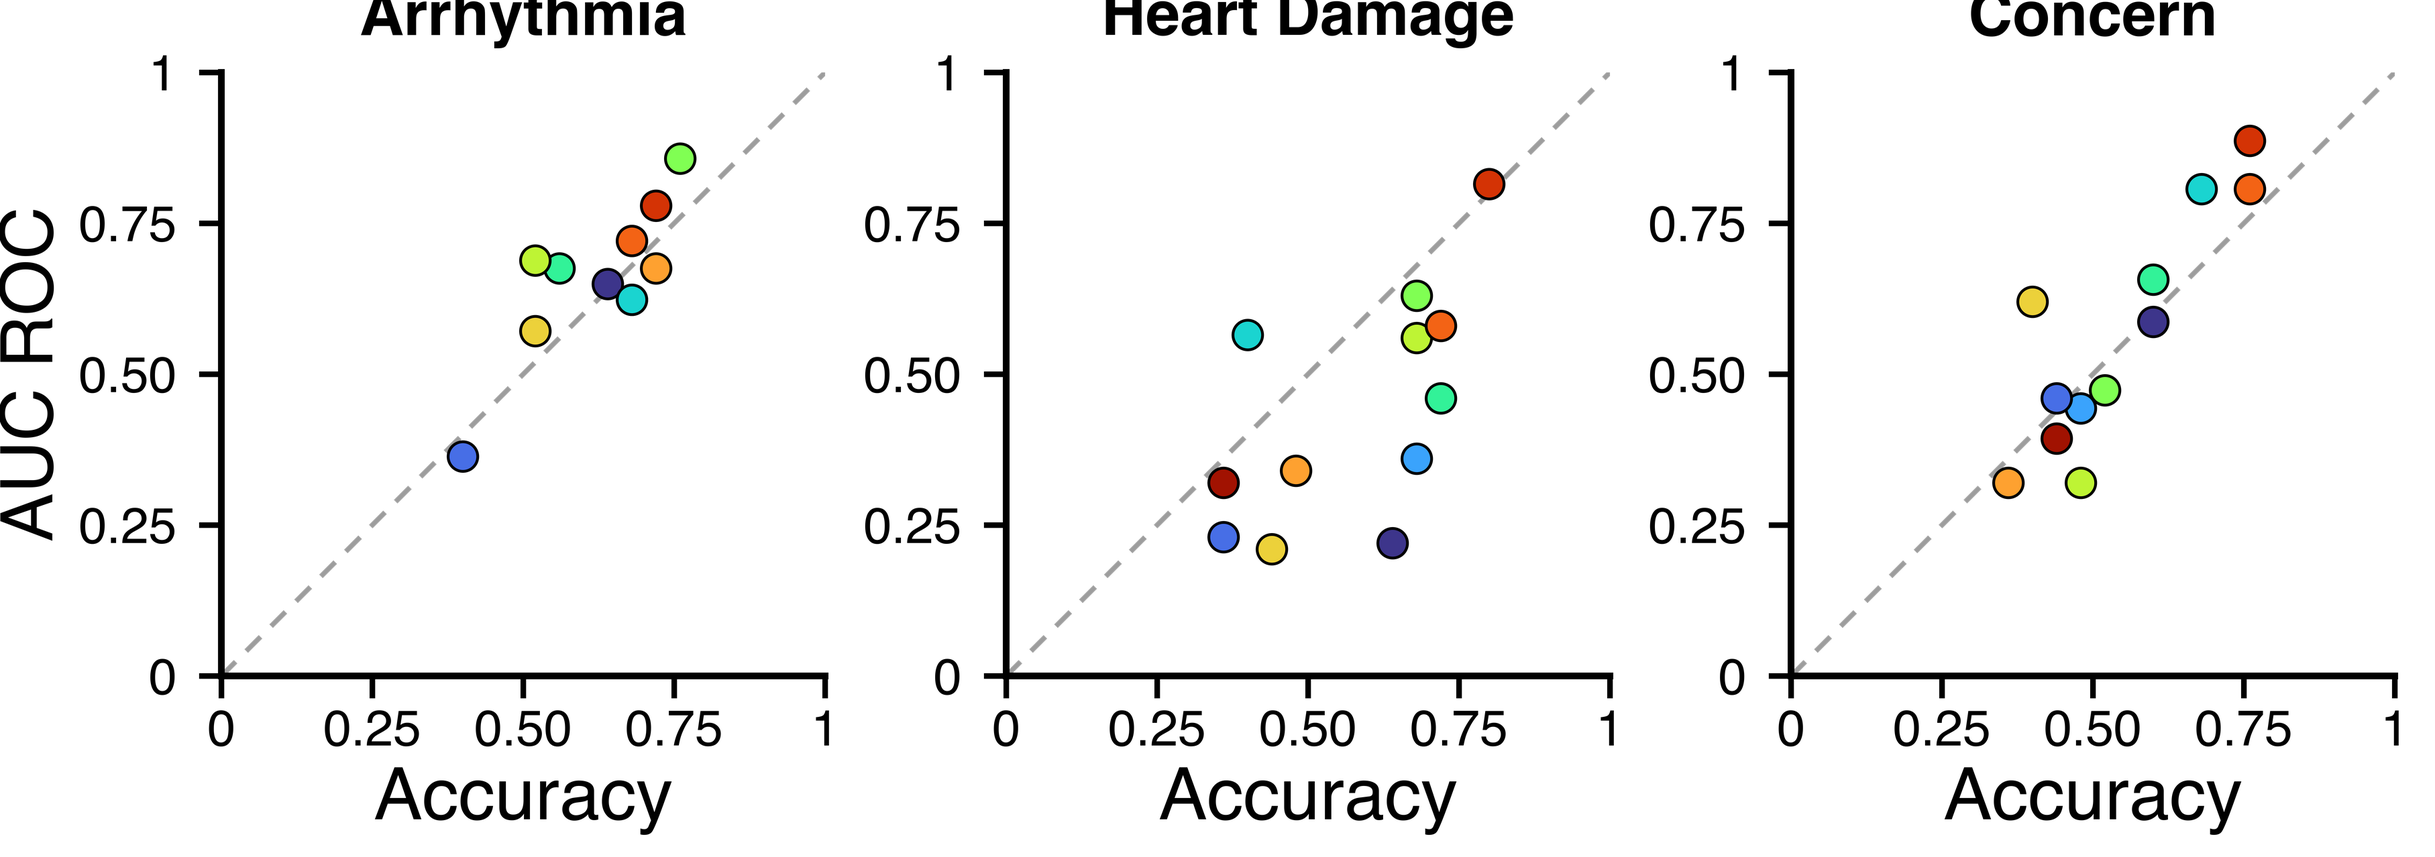
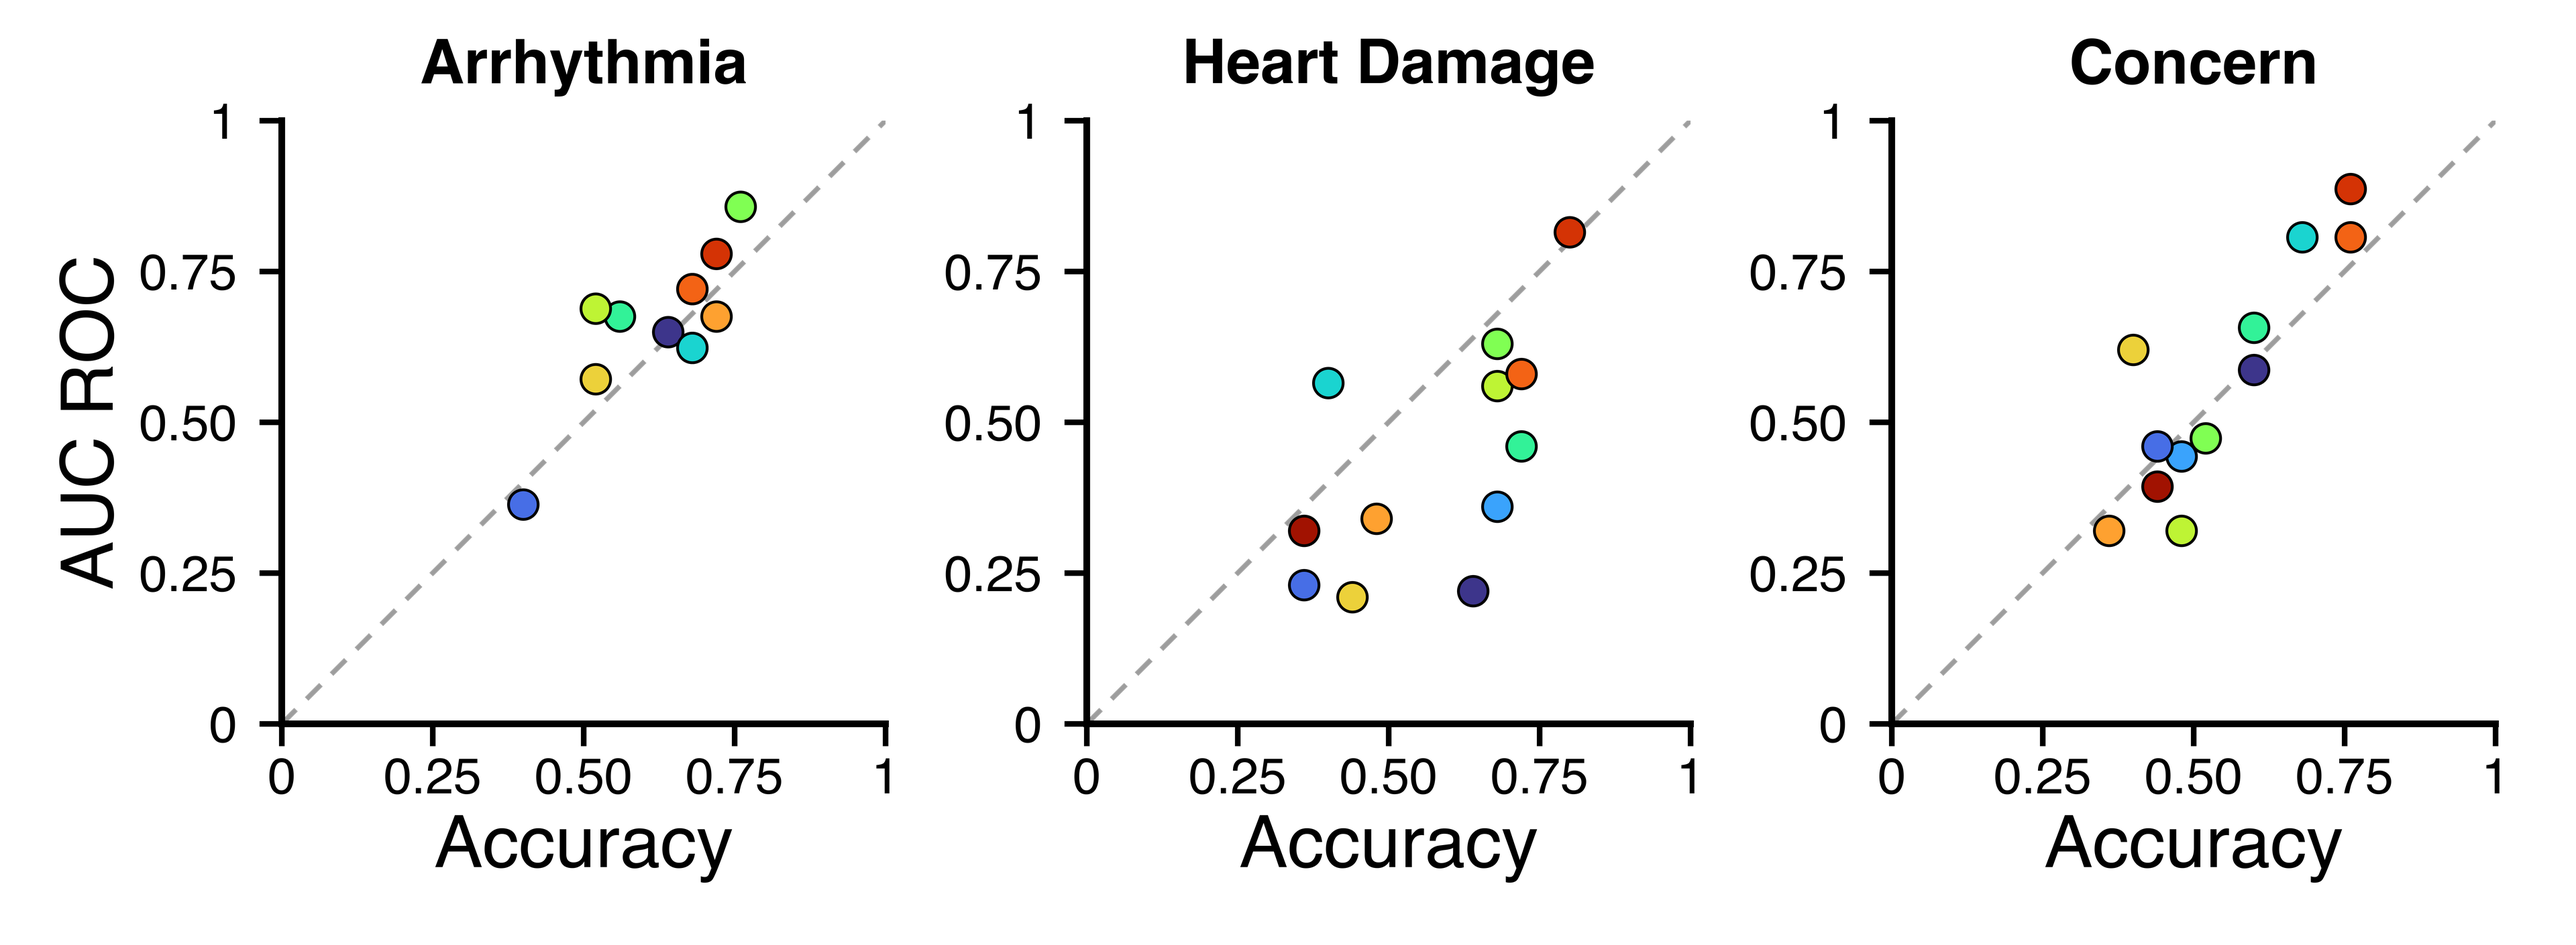
Fig 3 R²/LOOCV: shared per-equation colors + bumped margins
Both panels now use the same canonical equation -> color map (turbo
palette indexed alphabetically) so each PK-PD equation gets identical
color in the R² bar (Fig_3_R2_bar_prism.png) and across all 3 LOOCV
sub-panels (Fig_3_LOOCV_scatter_prism.png).  Pretty-name -> snake_case
mapping handles the bridge between Fig_3c_data and Fig_3d_data.

Margins bumped to prevent any text clipping (no font shrinks):
- 3c R² bar: MARGIN_L 1.20"->1.55" (Gaussian-Hill Hybrid is the longest
  equation name at 13 pt), MARGIN_R 0.50"->0.65" (negative-sign value
  labels), MARGIN_B 0.45"->0.50".
- 3d LOOCV scatter: MARGIN_L 0.55"->0.70", MARGIN_R 0.10"->0.20",
  MARGIN_T 0.18"->0.30" (sub-panel titles at 11 pt bold), MARGIN_B
  0.45"->0.55", inter-panel GAP 0.45"->0.50".

New shared module Prism_Style/_equations.py with:
- EQUATIONS list (12 canonical snake_case names, alphabetical)
- PRETTY_TO_CANONICAL map (Fig 3c pretty names -> Fig 3d snake_case)
- equation_color_map() and color_for_pretty() helpers

diff --git a/Prism_Style/generate_loocv_scatter.py b/Prism_Style/generate_loocv_scatter.py
@@ -20,7 +20,6 @@ from pathlib import Path
 
 import numpy as np
 import pandas as pd
-import matplotlib.cm as mcm
 import matplotlib.pyplot as plt
 import matplotlib.ticker as mticker
 from matplotlib.transforms import Bbox
@@ -33,6 +32,7 @@ sys.path.insert(0, str(HERE))
 import figure_config  # noqa: F401
 from prism_style import apply_prism_style, helvetica, clean_decimal_formatter
 from _paths import panel_named_png, panel_named_data
+from _equations import equation_color_map
 
 SRC = PROJECT_ROOT / "Output" / "PowerPoint_Figures" / "Fig_3" / "Fig_3d_data.xlsx"
 
@@ -42,13 +42,14 @@ TARGETS = [
     ("Concern_Binary", "Concern"),
 ]
 
-# Sizing — 3 sub-panels of 1.5" × 1.5" plot area, side by side
+# Sizing — 3 sub-panels of 1.5" × 1.5" plot area, side by side.
+# Margins generous so the title, axis labels, and tick labels never clip.
 SUB_PLOT = 1.50
-MARGIN_L = 0.55     # left of leftmost sub-panel (Y label)
-MARGIN_R = 0.10
-MARGIN_T = 0.18     # title above each sub-panel
-MARGIN_B = 0.45     # X label
-GAP = 0.45          # gap between sub-panels (room for inner Y axes)
+MARGIN_L = 0.70     # left of leftmost sub-panel (Y label "AUC ROC" at 13 pt)
+MARGIN_R = 0.20     # rightmost x-tick label "1" overshoot
+MARGIN_T = 0.30     # title at 11 pt bold + small gap
+MARGIN_B = 0.55     # X label + ticks (at 13 pt / 9 pt)
+GAP = 0.50          # gap between sub-panels (room for inner Y axes)
 
 PLOT_W = 3 * SUB_PLOT + 2 * GAP
 PLOT_H = SUB_PLOT
@@ -71,18 +72,10 @@ def load() -> pd.DataFrame:
     return df
 
 
-def _equation_color_map(equations) -> dict[str, tuple]:
-    cmap = mcm.get_cmap("turbo")
-    n = len(equations)
-    return {eq: cmap(0.05 + 0.90 * (i / max(1, n - 1)))
-            for i, eq in enumerate(equations)}
-
-
 def _draw(df: pd.DataFrame, out_path: Path):
     fig = plt.figure(figsize=(FIG_W * SCALE, FIG_H * SCALE), dpi=DPI)
 
-    eq_order = sorted(df["Equation"].unique())
-    colors = _equation_color_map(eq_order)
+    colors = equation_color_map()  # canonical name -> color (shared with R² bar)
 
     for i, (target_key, title) in enumerate(TARGETS):
         sub_left_in = MARGIN_L + i * (SUB_PLOT + GAP)

diff --git a/Prism_Style/_equations.py b/Prism_Style/_equations.py
@@ -1,0 +1,61 @@
+"""Canonical PK-PD equation names + shared color map for Fig 3 panels.
+
+Used by both `generate_r2_bar.py` and `generate_loocv_scatter.py` so the
+12 equations have identical colors across both panels.
+
+Canonical names match the snake_case identifiers used in
+`Output/PowerPoint_Figures/Fig_3/Fig_3d_data.xlsx`. The pretty display
+names in `Fig_3c_data.xlsx` are mapped via `PRETTY_TO_CANONICAL`.
+"""
+
+from __future__ import annotations
+
+import matplotlib.cm as mcm
+
+
+# Alphabetical order — defines the color sequence (turbo palette).
+EQUATIONS = [
+    "adaptive_response",
+    "biphasic_response",
+    "bivariate_gaussian",
+    "cumulative_exposure",
+    "dual_exponential",
+    "gaussian_hill_hybrid",
+    "gaussian_ridge",
+    "hormesis_v0",
+    "modified_hill_hormesis",
+    "modified_hill_simple",
+    "pkpd_elimination",
+    "recovery_model",
+]
+
+
+# Pretty display name (used in Fig 3c) -> canonical snake_case name.
+PRETTY_TO_CANONICAL = {
+    "Adaptive Response":     "adaptive_response",
+    "Biphasic Response":     "biphasic_response",
+    "Bivariate Gaussian":    "bivariate_gaussian",
+    "Cumulative Exposure":   "cumulative_exposure",
+    "Dual Exponential":      "dual_exponential",
+    "Dual Hill Hormesis":    "modified_hill_hormesis",
+    "Gaussian Ridge":        "gaussian_ridge",
+    "Gaussian-Hill Hybrid":  "gaussian_hill_hybrid",
+    "Hormesis Hill":         "hormesis_v0",
+    "Modified Hill":         "modified_hill_simple",
+    "PKPD Elimination":      "pkpd_elimination",
+    "Recovery Model":        "recovery_model",
+}
+
+
+def equation_color_map(cmap_name: str = "turbo") -> dict[str, tuple]:
+    """canonical_name -> RGBA tuple. Order matches `EQUATIONS`."""
+    cmap = mcm.get_cmap(cmap_name)
+    n = len(EQUATIONS)
+    return {eq: cmap(0.05 + 0.90 * (i / max(1, n - 1)))
+            for i, eq in enumerate(EQUATIONS)}
+
+
+def color_for_pretty(name: str, cmap_name: str = "turbo"):
+    """Look up the color for an equation by its pretty (Fig 3c) name."""
+    canonical = PRETTY_TO_CANONICAL[name]
+    return equation_color_map(cmap_name)[canonical]

diff --git a/Prism_Style/generate_r2_bar.py b/Prism_Style/generate_r2_bar.py
@@ -17,7 +17,6 @@ from pathlib import Path
 
 import numpy as np
 import pandas as pd
-import matplotlib.cm as mcm
 
 HERE = Path(__file__).resolve().parent
 PROJECT_ROOT = HERE.parent
@@ -27,16 +26,17 @@ sys.path.insert(0, str(HERE))
 import figure_config  # noqa: F401
 from prism_style import apply_prism_style, render_at_scale, helvetica
 from _paths import panel_named_png, panel_named_data
+from _equations import color_for_pretty
 
 SRC = PROJECT_ROOT / "Output" / "PowerPoint_Figures" / "Fig_3" / "Fig_3c_data.xlsx"
 
-# Plot tuning
+# Plot tuning — generous margins so equation names and value labels never clip.
 PLOT_W = 2.50    # in
 PLOT_H = 2.40
-MARGIN_L = 1.20  # equation names go here (rotate-free)
-MARGIN_R = 0.50  # value labels at bar tip
+MARGIN_L = 1.55  # equation names ("Gaussian-Hill Hybrid" is the longest at 13 pt)
+MARGIN_R = 0.65  # value labels at bar tip (with negative sign + sign space)
 MARGIN_T = 0.05
-MARGIN_B = 0.45  # X label "R² (O2)"
+MARGIN_B = 0.50  # X label "R² (O2)" + tick labels
 FIG_W = PLOT_W + MARGIN_L + MARGIN_R
 FIG_H = PLOT_H + MARGIN_T + MARGIN_B
 AXES_RECT = (MARGIN_L / FIG_W, MARGIN_B / FIG_H,
@@ -63,9 +63,8 @@ def _plot_fn(df: pd.DataFrame):
     n = len(df)
     values = df[WHICH_COL].to_numpy()
     labels = df["Equation"].tolist()
-    cmap = mcm.get_cmap("turbo")
-    # Top bar = warm color, bottom bar = cool.
-    colors = [cmap(0.05 + 0.90 * (i / max(1, n - 1))) for i in range(n)]
+    # Per-equation color (shared with Fig 3 LOOCV scatter via _equations.py).
+    colors = [color_for_pretty(name) for name in labels]
 
     def _fn(fig, ax, scale):
         y = np.arange(n)
